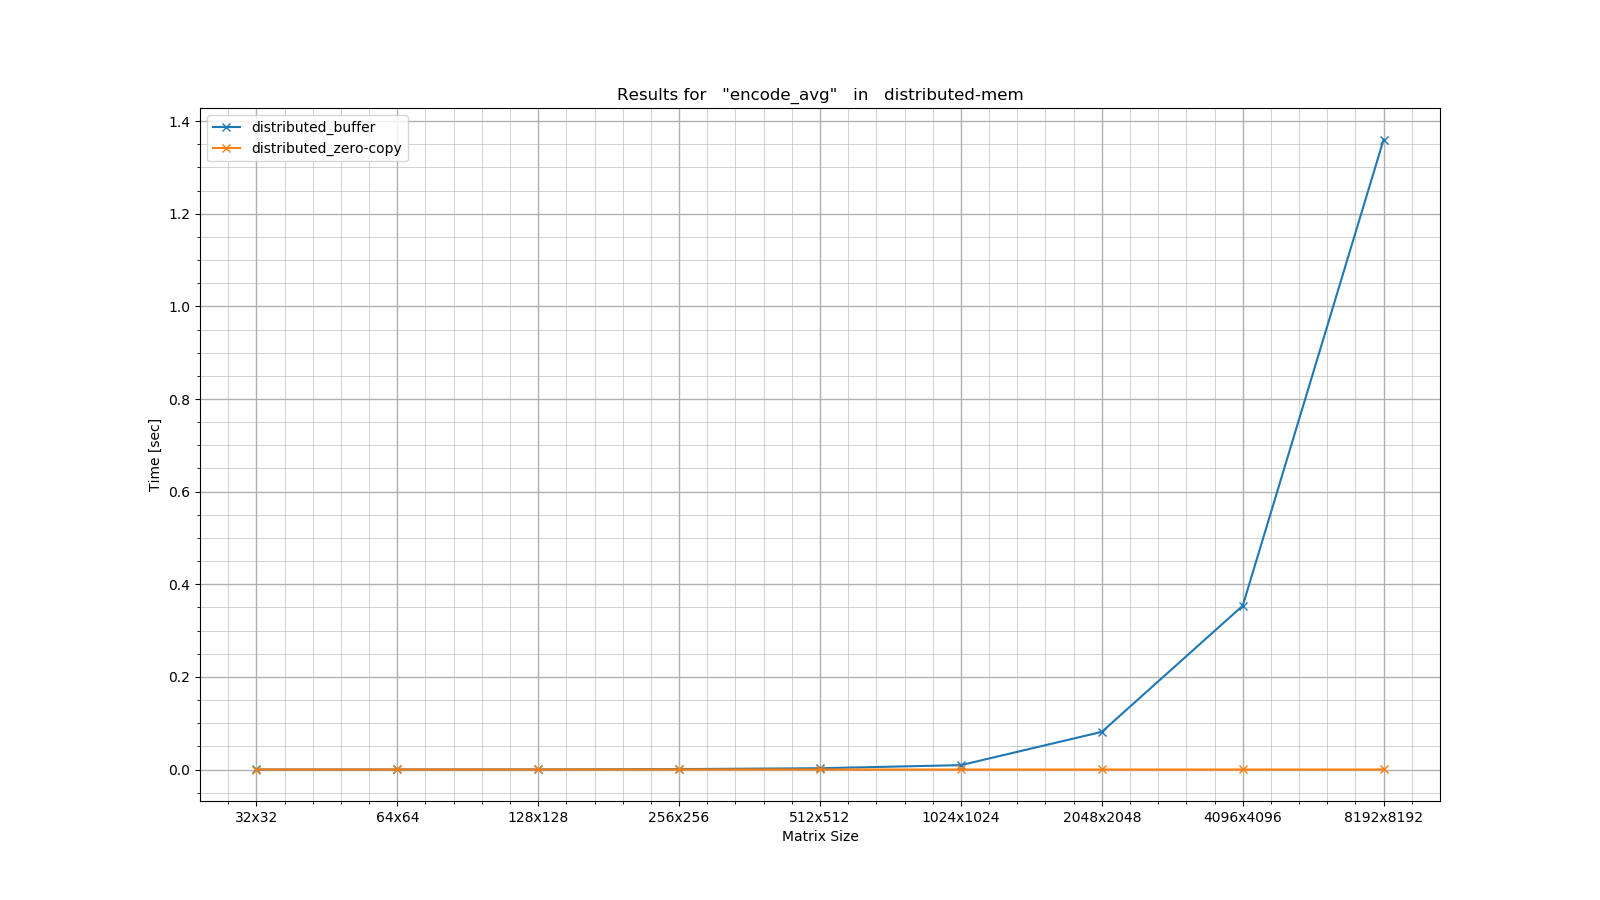
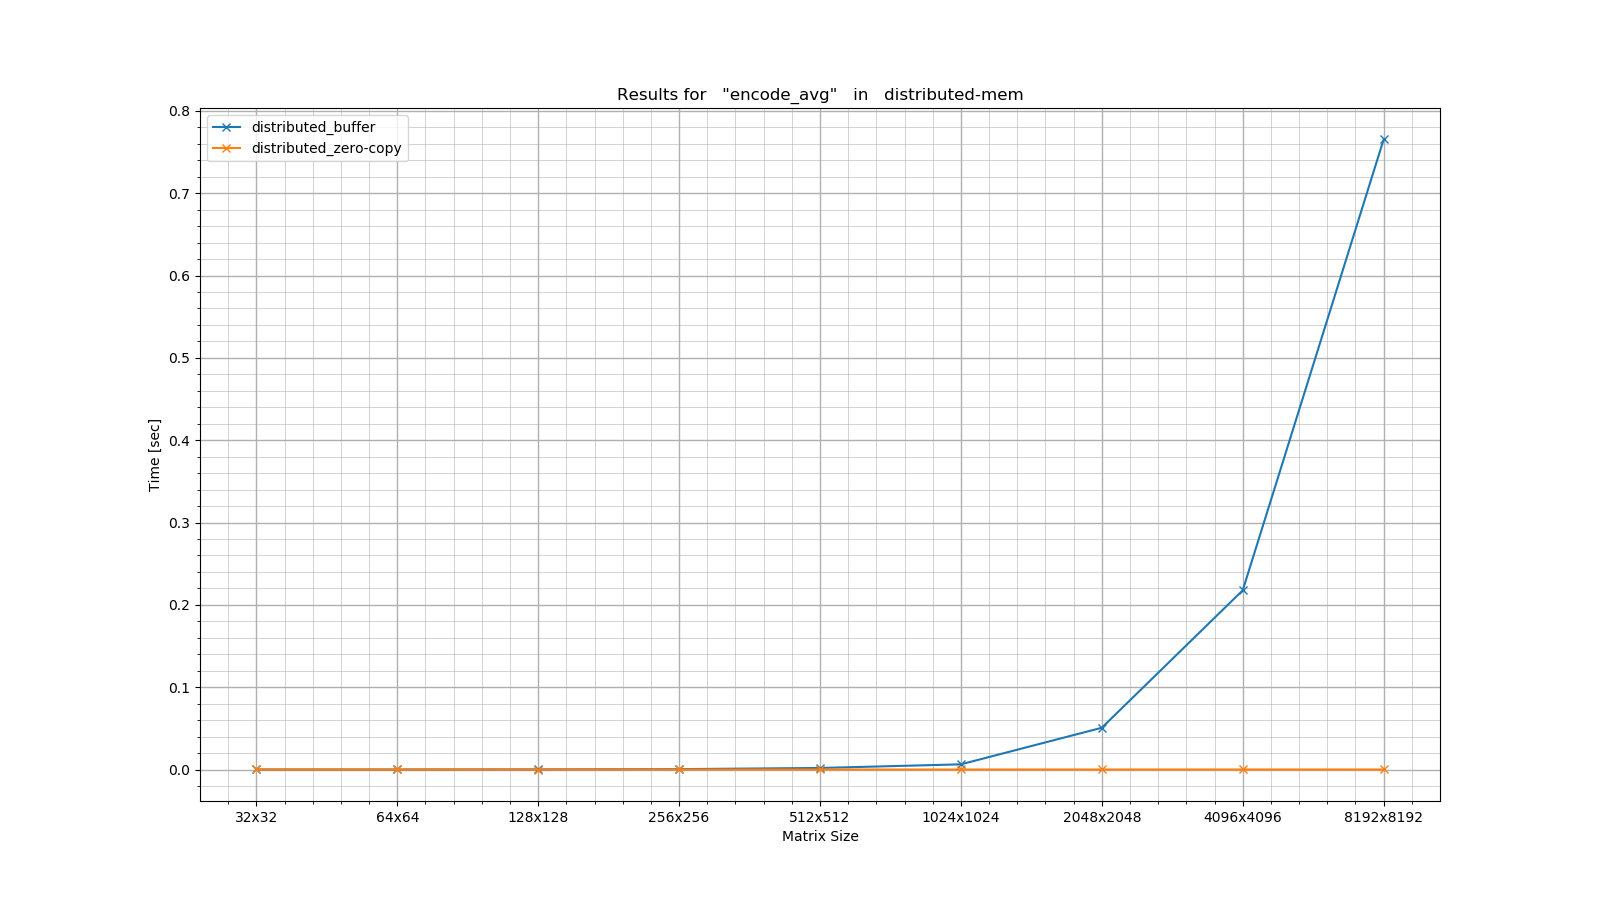
fixed results for distributed memory because of bug in batch settings

Changed region(s): [[0.125, 0.1556, 0.9062, 0.8711], [0.0938, 0.7467, 0.125, 0.7778]]

diff --git a/packing_type_threshold/plot_threshold_packing_types.py b/packing_type_threshold/plot_threshold_packing_types.py
@@ -75,7 +75,7 @@ class CPlotPackingTypeThresholds:
                 for idx_suffix in range(len(suffixes)):
                     tmp_suffix  = suffixes[idx_suffix]
                     tmp_data    = arr_data_plotting[idx_signal][idx_suffix]
-                    # ax.plot(xtick[:4], np.array(tmp_data[:4]), 'x-')
+                    # ax.plot(xtick[:7], np.array(tmp_data[:7]), 'x-')
                     ax.plot(xtick, np.array(tmp_data), 'x-')
                     labels.append(tmp_suffix)
                 
